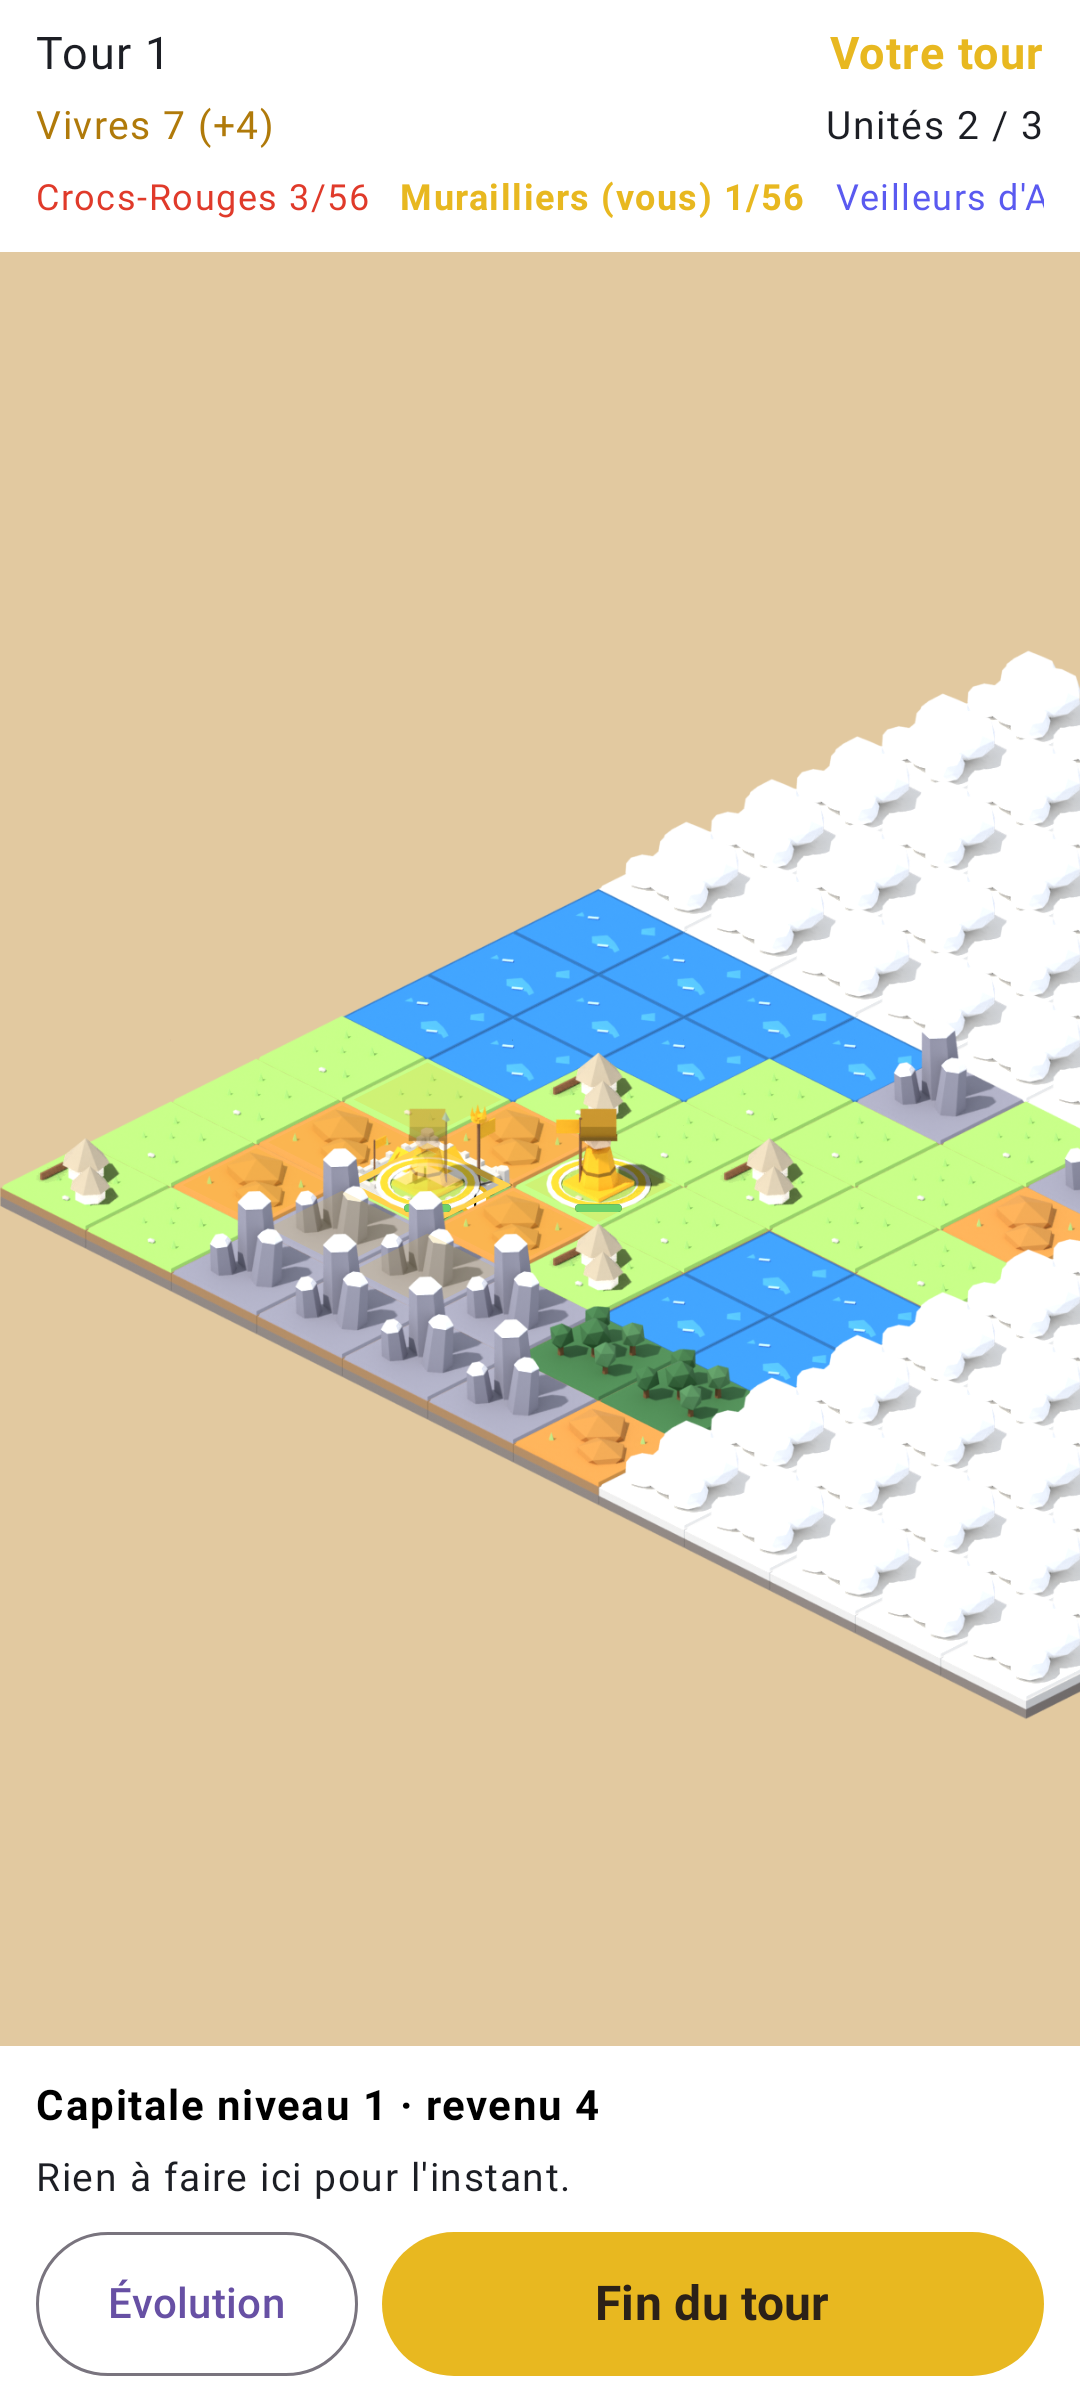
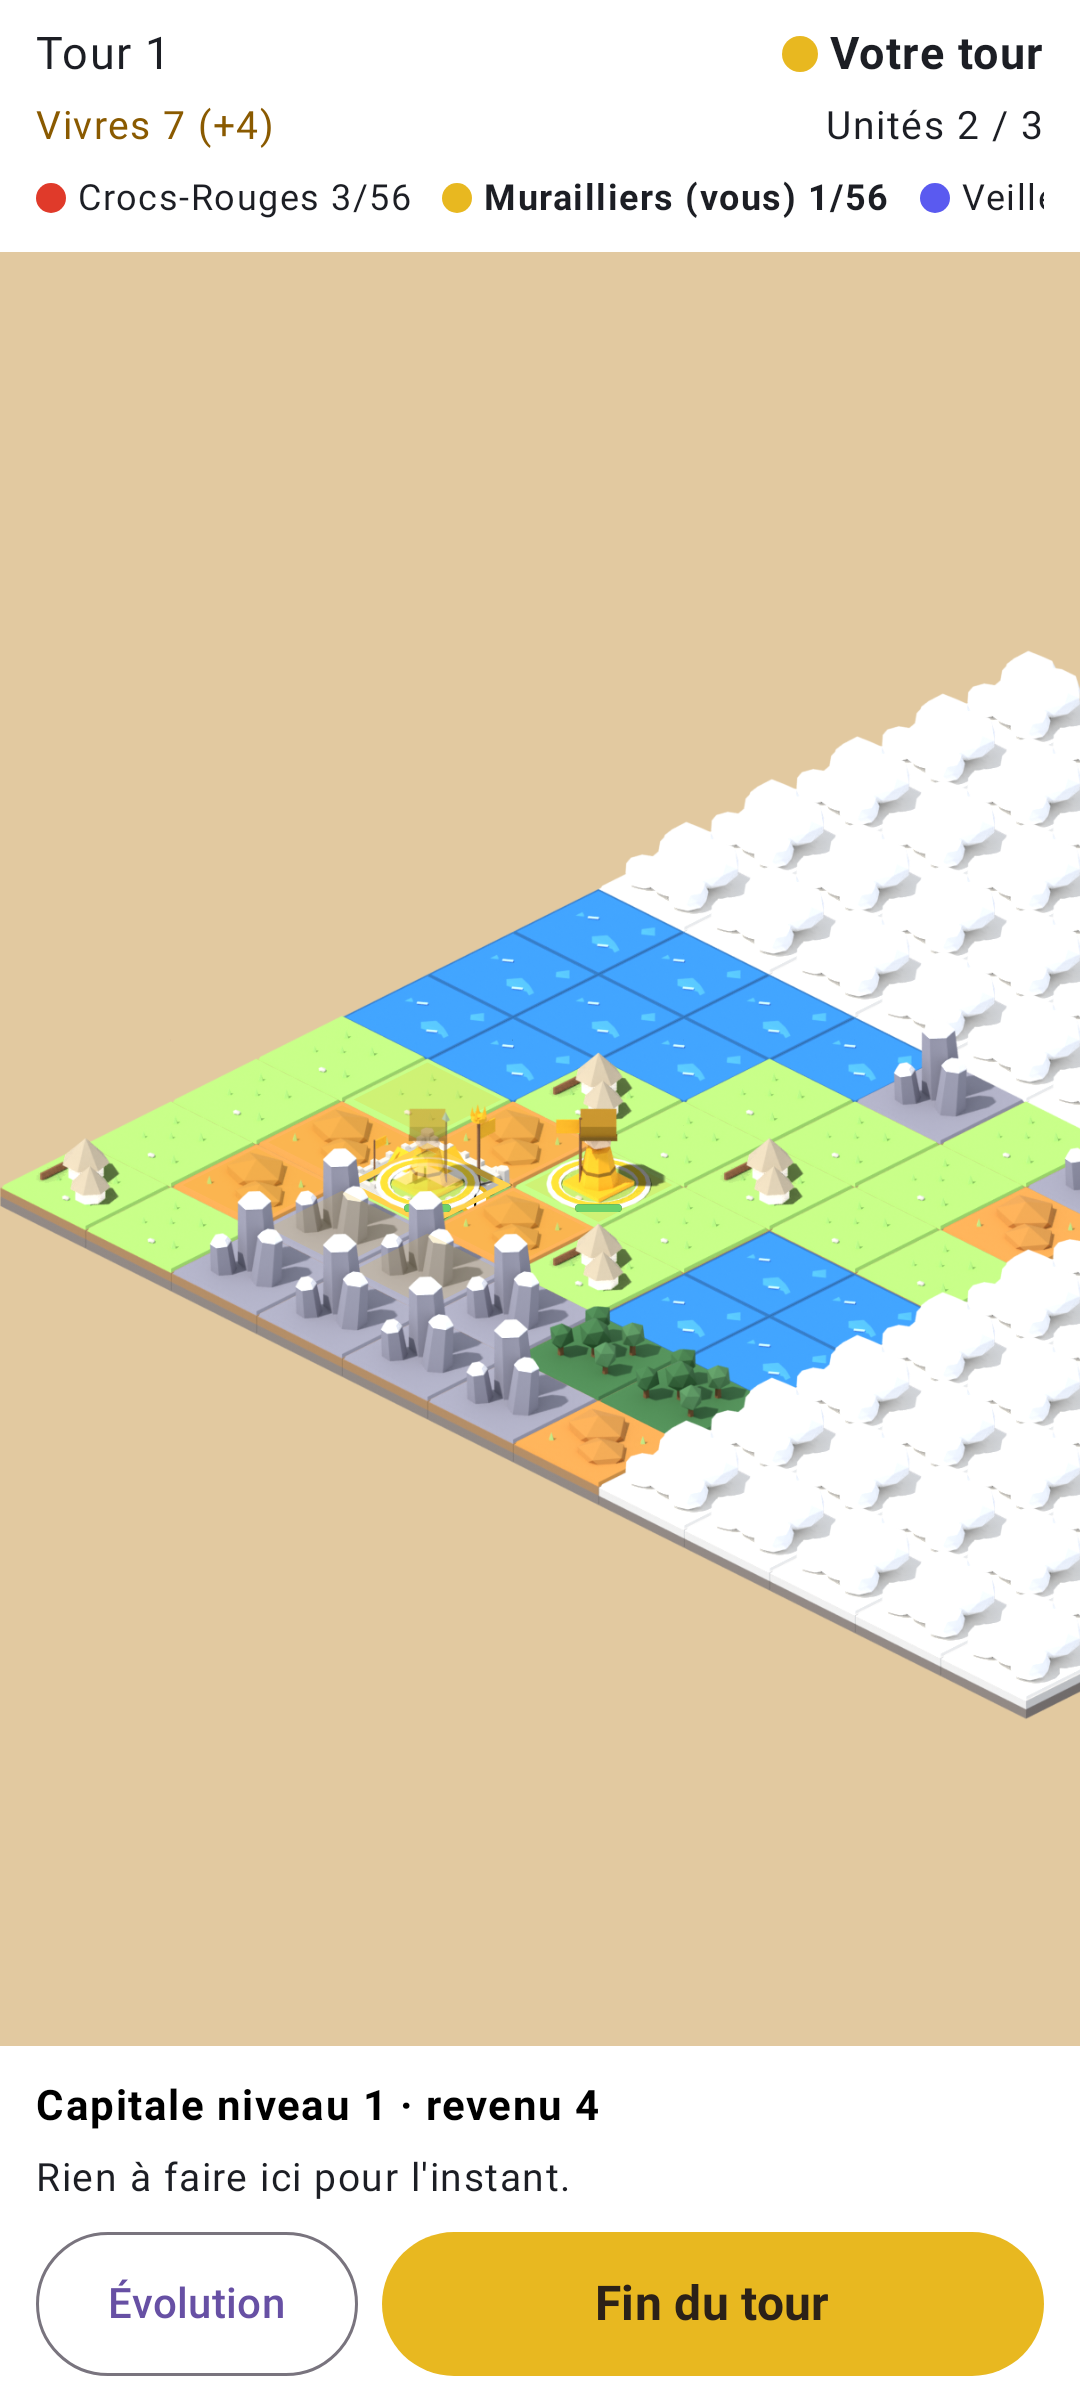
barre du haut : noms de clan à l'encre avec pastille de couleur [skip ci]
Claude-Session: https://claude.ai/code/session_01EL3qoSH2aPunpMotVA9fo3

Changed region(s): [[0.0306, 0.0625, 0.9778, 0.0938], [0.7333, 0.0, 0.9472, 0.0312]]

diff --git a/app/src/main/kotlin/fr/jeu4x/app/plateau/EcranPartie.kt b/app/src/main/kotlin/fr/jeu4x/app/plateau/EcranPartie.kt
@@ -61,6 +61,7 @@ import androidx.compose.ui.res.stringResource
 import androidx.compose.ui.text.font.FontWeight
 import androidx.compose.ui.text.style.TextAlign
 import androidx.compose.ui.unit.IntSize
+import androidx.compose.ui.unit.TextUnit
 import androidx.compose.ui.unit.dp
 import androidx.compose.ui.unit.sp
 import fr.jeu4x.app.R
@@ -145,7 +146,7 @@ private val CODE_EXPLOITATION = listOf("cueillette", "champ", "carriere")
 /** Couleurs des barres et panneaux (guide de S6, § 2, « Interface »), selon le mode du téléphone (D-33). */
 private class Interface(val panneau: Color, val texte: Color, val secondaire: Color, val or: Color)
 
-private val INTERFACE_JOUR = Interface(Color(0xFFFFFFFF), Color(0xFF1C1E24), Color(0xFF555B66), Color(0xFFB07A0A))
+private val INTERFACE_JOUR = Interface(Color(0xFFFFFFFF), Color(0xFF1C1E24), Color(0xFF555B66), Color(0xFF8A5A00))
 private val INTERFACE_NUIT = Interface(Color(0xFF1C212A), Color(0xFFEEF1F5), Color(0xFFA9B1BD), Color(0xFFFFE14A))
 
 @Composable
@@ -178,9 +179,9 @@ private fun BarreHaut(a: Affichage) {
                 if (e.tour >= 70) stringResource(R.string.partie_tour_limite, e.tour, e.limiteTours) else stringResource(R.string.partie_tour, e.tour),
                 color = ui.texte, fontSize = 15.sp,
             )
-            Text(
+            NomPastille(
                 if (e.joueurCourant == a.humain) stringResource(R.string.partie_votre_tour) else stringResource(R.string.partie_tour_de, nomCourant),
-                color = couleurJoueur(e, e.joueurCourant), fontSize = 15.sp, fontWeight = FontWeight.Bold,
+                couleurJoueur(e, e.joueurCourant), ui.texte, 15.sp, FontWeight.Bold,
             )
         }
         Row(Modifier.fillMaxWidth(), horizontalArrangement = Arrangement.SpaceBetween) {
@@ -190,17 +191,31 @@ private fun BarreHaut(a: Affichage) {
         Row(Modifier.fillMaxWidth().horizontalScroll(rememberScrollState()), horizontalArrangement = Arrangement.spacedBy(10.dp)) {
             e.joueurs.forEachIndexed { j, info ->
                 val nom = nomJoueur(e, j) + if (j == a.humain) " (" + stringResource(R.string.partie_vous) + ")" else ""
-                Text(
+                NomPastille(
                     "$nom ${info.score}/${e.seuil}" + if (info.annonce) " !" else "",
-                    color = if (info.elimine) ui.secondaire else couleurJoueur(e, j),
-                    fontSize = 12.sp,
-                    fontWeight = if (j == e.joueurCourant) FontWeight.Bold else FontWeight.Normal,
+                    if (info.elimine) ui.secondaire else couleurJoueur(e, j),
+                    if (info.elimine) ui.secondaire else ui.texte,
+                    12.sp,
+                    if (j == e.joueurCourant) FontWeight.Bold else FontWeight.Normal,
                 )
             }
         }
         e.joueurs.indexOfFirst { it.annonce }.takeIf { it >= 0 }?.let { j ->
-            Text(stringResource(R.string.partie_annonce, nomJoueur(e, j)), color = Teintes.choix, fontSize = 12.sp)
+            Text(stringResource(R.string.partie_annonce, nomJoueur(e, j)), color = ui.texte, fontSize = 12.sp, fontWeight = FontWeight.Bold)
         }
+    }
+}
+
+/**
+ * Nom à la couleur d'un clan : texte à l'encre de l'interface, précédé d'une pastille de la couleur
+ * du clan, pour que le texte reste lisible (4,5:1) et que la couleur ne soit pas le seul repère.
+ */
+@Composable
+private fun NomPastille(texte: String, couleur: Color, encre: Color, taille: TextUnit, graisse: FontWeight) {
+    Row(verticalAlignment = Alignment.CenterVertically) {
+        Box(Modifier.size(if (taille.value >= 14f) 12.dp else 10.dp).background(couleur, CircleShape))
+        Spacer(Modifier.width(4.dp))
+        Text(texte, color = encre, fontSize = taille, fontWeight = graisse)
     }
 }
 

diff --git a/docs/environnement/JOURNAL.md b/docs/environnement/JOURNAL.md
@@ -2,6 +2,15 @@
 
 > Entrée la plus récente en haut. On ne modifie ni ne supprime une entrée passée.
 
+## 2026-11-28 · Noms de clan lisibles : texte à l'encre et pastille (pas encore publié)
+
+Claude, session S1.
+
+- Retour de S6 : de jour, sur la barre blanche, les noms écrits en jaune ou en bleu ciel atteignent environ 2:1. Choix de la maître : texte foncé et pastille à la couleur du clan.
+- Barre du haut : « Votre tour » ou « Tour de … », et chaque joueur, avec une pastille de couleur devant un texte à l'encre de l'interface (#1C1E24 de jour, #EEF1F5 de nuit). Vivres de jour en #8A5A00. L'annonce de victoire est à l'encre, en gras.
+- Tests Kotlin verts ; captures de la barre regardées, de jour et de nuit.
+- Poussé avec `[skip ci]` : la maître ne veut pas d'essai pour ce seul point. Il partira dans le prochain essai, avec les corrections qui suivront les retours de jeu de l'utilisateur.
+
 ## 2026-11-28 · Essai 0.1.20 publié (couleurs du guide, cadrage)
 
 Claude, session S1.
